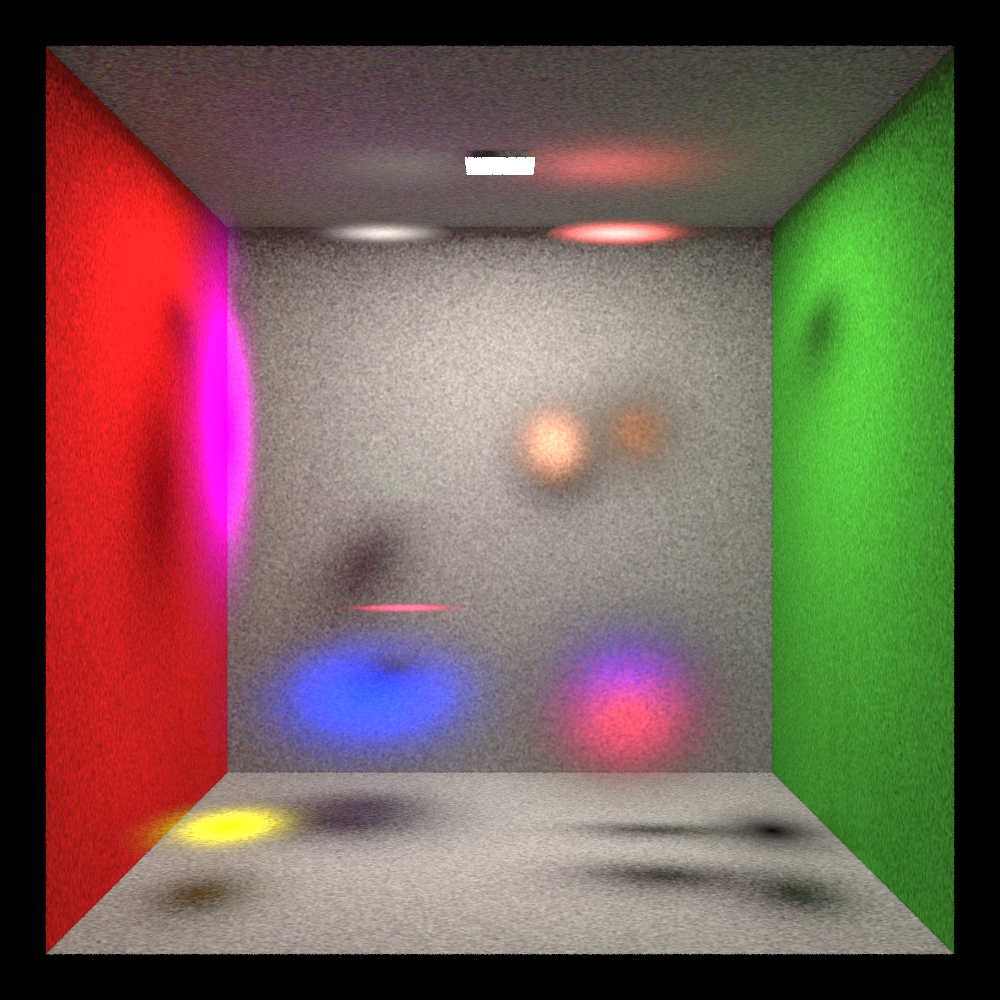
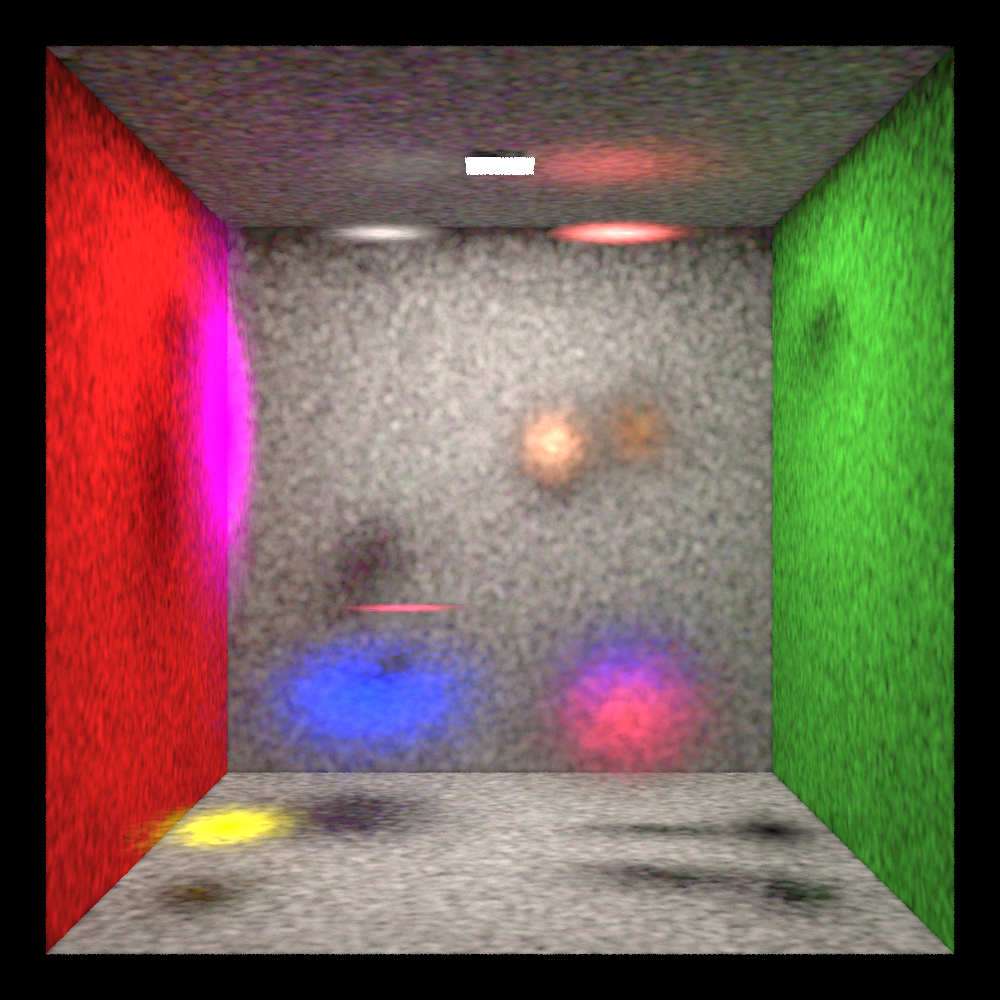
WIP gradients for just single bounce but combined with correct ray formulation

diff --git a/Pale/Renderer/Kernels/AdjointKernels.cpp b/Pale/Renderer/Kernels/AdjointKernels.cpp
@@ -120,7 +120,7 @@ namespace Pale {
 
                     // Transmission gradients with shadow rays
                     if (instance.geometryType == GeometryType::Mesh) {
-                        //d_grad_pos = transmissionGradients(scene, worldHit, rayState, instance, photonMap, rng128) * 1e-4;
+                        d_grad_pos = transmissionGradients(scene, worldHit, rayState, instance, photonMap, rng128);
                         float gradMag = length(d_grad_pos);
                         int debug = 1;
                     }
@@ -193,22 +193,31 @@ namespace Pale {
                             const float fBsdf = (M_1_PIf) * alpha * color;
                             const float3 dFBsdfDc = (M_1_PIf) * dAlphaDc * color;
 
-                            // 4) Geometry term with correct û and n_x
-                            const float3 xPos = ray.origin; // x
-                            const float3 yPos = worldHit.hitPositionW; // y or swap if your convention differs
-                            float3 segment = yPos - xPos;
-                            const float r = length(segment);
+                            // geometry
+                            const float3 segmentVector = worldHit.hitPositionW - ray.origin;
+                            const float r = length(segmentVector);
                             if (r <= 1e-6f) return;
-                            const float3 uHat = segment / r;
-                            float  a = sycl::fmax(0.0f, dot(surfelNormal, -uHat));              // n_y · (-û)
-                            float ss = su * sv;
+                            const float3 u = segmentVector / r;
+                            const float a = sycl::fmax(0.0f, dot(surfelNormal, -u));
+                            const float b = sycl::fmax(0.0f, dot(ray.normal, u));
+                            const float geometryG = a * b / (r * r);
 
-                            float Jacobian = ss * a / (r * r);
-                            // ∂G/∂y in world space
-                            // projector: I - û û^T applied to n_y
-                            auto I = identity3x3();
-                            auto outer = outerProduct(uHat, uHat);
-                            float3 dJdx   = (su * sv) / (r * r * r) * ((I - outer) * surfelNormal + 2 * a * uHat) ;
+                            // dG/dc for pure translation of surfel (dy/dc = I, dn/dc = 0)
+                            const float3x3 I = identity3x3();
+                            const float3x3 P = I - outerProduct(u, u);
+
+                            const float invR3 = 1.0f / (r * r * r);
+
+                            // dG/dy (translation only)
+                            const float3 dGdc =
+                                invR3 * ( - b * (P * surfelNormal)
+                                          + a * (P * ray.normal)
+                                          - 2.0f * a * b * u );
+
+                            // use in gradient assembly
+                            float3 brdfGrad = dFBsdfDc * tauTotal * geometryG;
+                            float3 transmissivityGrad = tauGrad * fBsdf * geometryG;
+                            float3 geometryGrad = dGdc * tauTotal * fBsdf;
 
                             // 5) Final gradient assembly
                             const float3 surfelRadianceRGB = estimateSurfelRadianceFromPhotonMap(
@@ -216,10 +225,9 @@ namespace Pale {
                             const float L_surfel = luminanceGrayscale(surfelRadianceRGB);
                             const float3 pAdjoint = rayState.pathThroughput;
 
-                            float3 brdf_grad = dFBsdfDc * tauTotal * Jacobian;
-                            float3 transmissivityGrad = tauGrad * fBsdf * Jacobian;
-                            float3 jacobianGrad = dJdx * tauTotal * fBsdf;
-                            d_grad_pos = pAdjoint * L_surfel * (brdf_grad + transmissivityGrad);
+                            //d_grad_pos = pAdjoint * L_surfel * (brdfGrad + transmissivityGrad + geometryGrad);
+                            d_grad_pos = pAdjoint * L_surfel * brdfGrad;
+
                             //(dFBsdfDc * tauTotal * G
                             // + tauGrad * fBsdf * G
                             // + gradG * tauTotal * fBsdf);
@@ -229,7 +237,7 @@ namespace Pale {
                     }
 
 
-                    if (rayState.bounceIndex >= 0) {
+                    if (rayState.bounceIndex == 0) {
                         const float3 parameterAxis = {1.0f, 0.0f, 0.00f};
                         const float dVdp_scalar = dot(d_grad_pos, parameterAxis);
 

diff --git a/Pale/Renderer/PathTracer.cpp b/Pale/Renderer/PathTracer.cpp
@@ -18,17 +18,15 @@ import Pale.Render.BVH;
 namespace Pale {
     PathTracer::PathTracer(sycl::queue q, const PathTracerSettings &settings) : m_queue(q), m_settings(settings) {
 
-        /*
+
         //  cuda/rocm
-        m_settings.photonsPerLaunch = 1e6; // 1e6
-        m_settings.maxBounces = 6;
-        m_settings.numForwardPasses = 6;
-        m_settings.numGatherPasses = 6;
+        m_settings.photonsPerLaunch = 1e5; // 1e6
+        m_settings.maxBounces = 4;
+        m_settings.numForwardPasses = 4;
+        m_settings.numGatherPasses = 4;
 
-        m_settings.maxAdjointBounces = 1;
-        m_settings.adjointSamplesPerPixel = 6;
-        */
-
+        m_settings.maxAdjointBounces = 4;
+        m_settings.adjointSamplesPerPixel = 4;
 
     }
 

diff --git a/Pale/Renderer/Kernels/AdjointGradientKernels.h b/Pale/Renderer/Kernels/AdjointGradientKernels.h
@@ -161,7 +161,7 @@ namespace Pale {
                             const float pAdjoint = luminanceGrayscale(shadowRayState.pathThroughput);
                             // already includes fs, V, G, etc., for this segment
                             // Accumulate to your running gradient
-                            d_cost_d_pos = pAdjoint * (tauTotal * luminanceMesh) * sumTerm;
+                            //d_cost_d_pos = pAdjoint * (tauTotal * luminanceMesh) * sumTerm;
                         }
                     }
                 }
